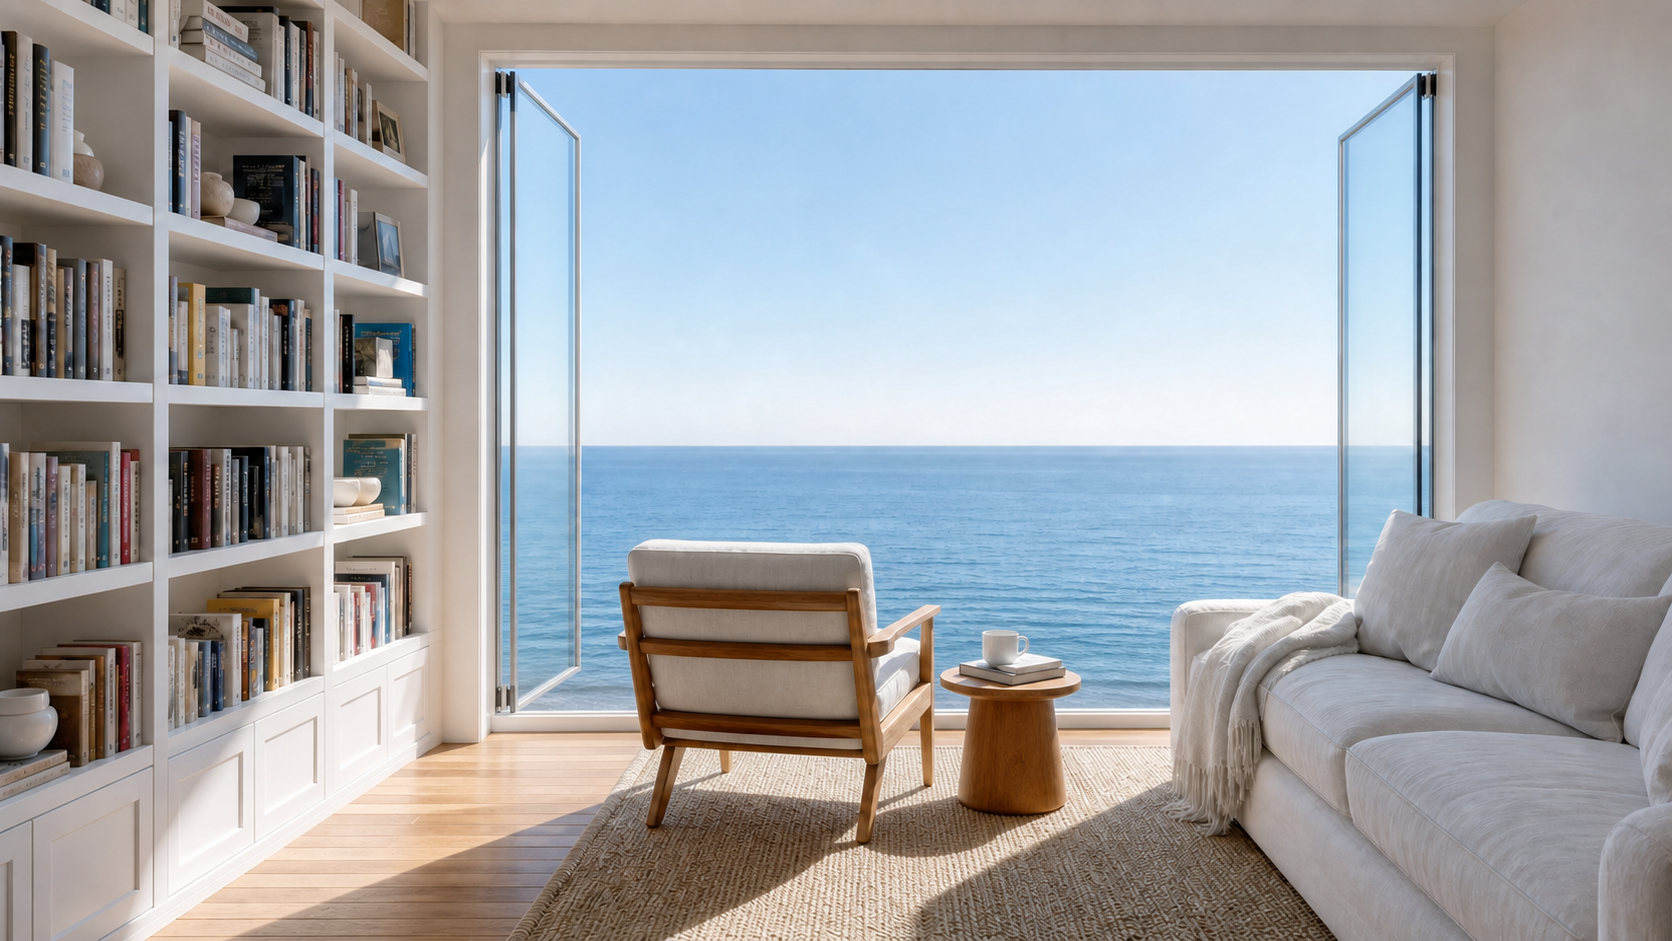
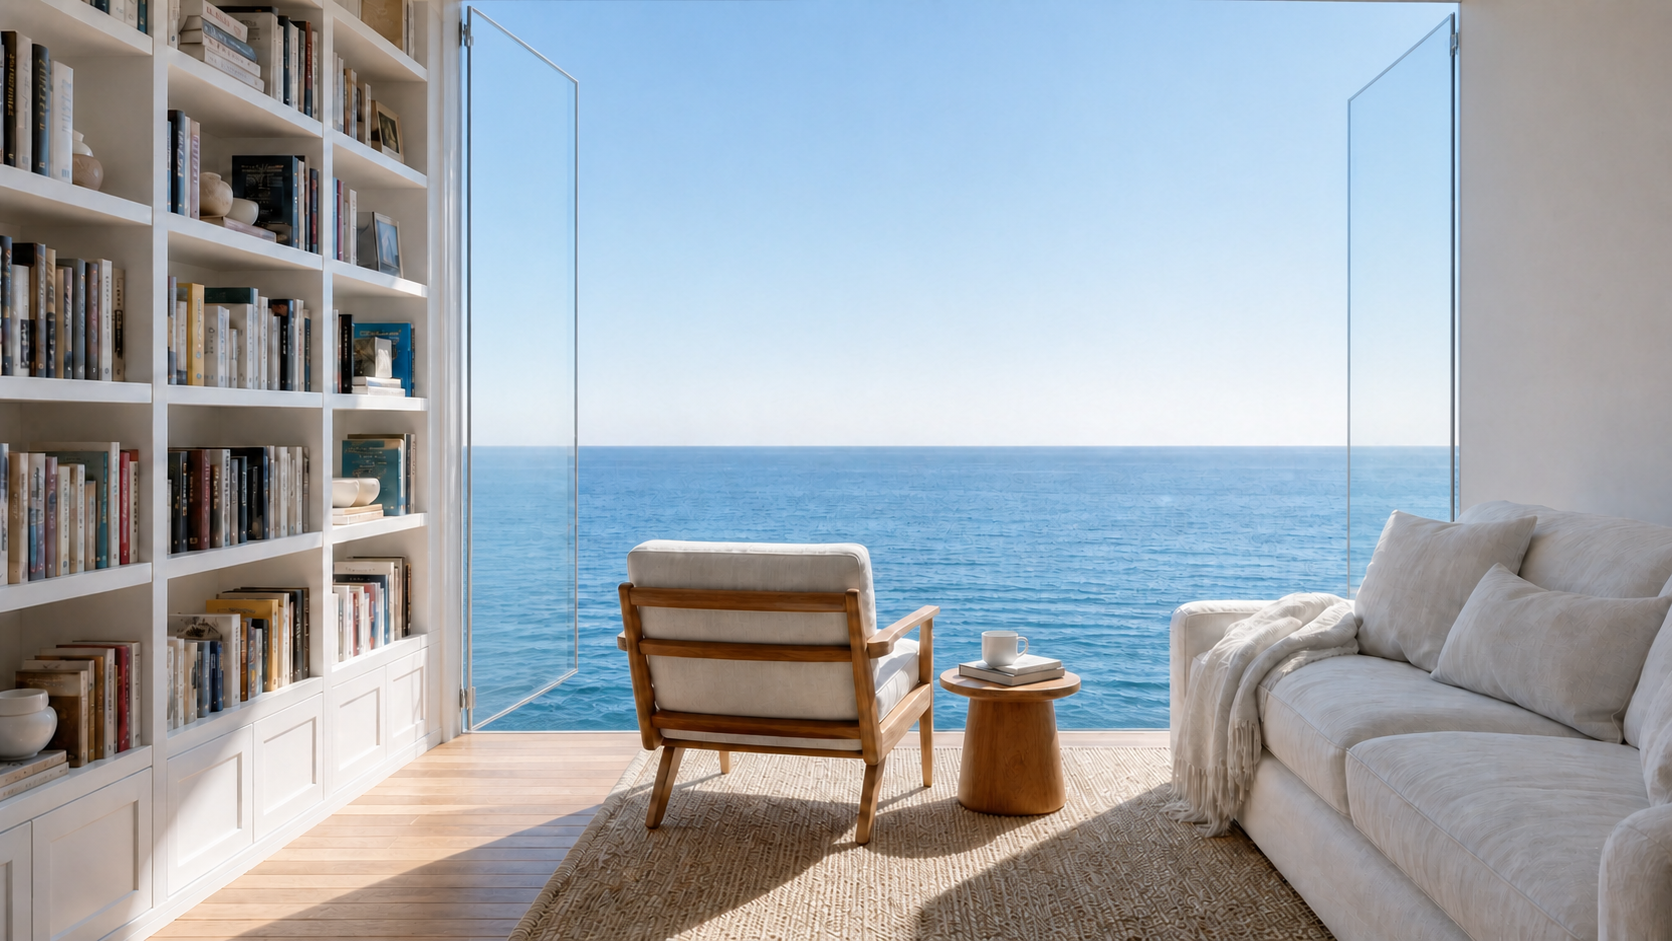
fix: remove heavy window frame

diff --git a/src/main.js b/src/main.js
@@ -17,14 +17,14 @@ const cloudLayer = document.querySelector('.cloud-layer');
 const sunGlow = document.querySelector('.sun-glow');
 const roomImages = {
   // Neutral master: same room geometry for every later lighting/weather pass.
-  day: "url('/images/white-sea-study-master.png?v=0.0.30')",
-  dawn: "url('/images/white-sea-study-blue-hour.png?v=0.0.30')",
-  sunset: "url('/images/white-sea-study-golden-hour.png?v=0.0.30')",
-  overcast: "url('/images/white-sea-study-overcast.png?v=0.0.30')",
-  fog: "url('/images/white-sea-study-fog.png?v=0.0.30')",
-  rain: "url('/images/white-sea-study-rain.png?v=0.0.30')",
-  storm: "url('/images/white-sea-study-storm.png?v=0.0.30')",
-  night: "url('/images/white-sea-study-night.png?v=0.0.30')",
+  day: "url('/images/white-sea-study-master.png?v=0.0.31')",
+  dawn: "url('/images/white-sea-study-blue-hour.png?v=0.0.31')",
+  sunset: "url('/images/white-sea-study-golden-hour.png?v=0.0.31')",
+  overcast: "url('/images/white-sea-study-overcast.png?v=0.0.31')",
+  fog: "url('/images/white-sea-study-fog.png?v=0.0.31')",
+  rain: "url('/images/white-sea-study-rain.png?v=0.0.31')",
+  storm: "url('/images/white-sea-study-storm.png?v=0.0.31')",
+  night: "url('/images/white-sea-study-night.png?v=0.0.31')",
   moonFog: "url('/images/white-sea-study-moon-fog-no-moon.png?v=0.0.24')"
 };
 const dayRoomImage = roomImages.day;
